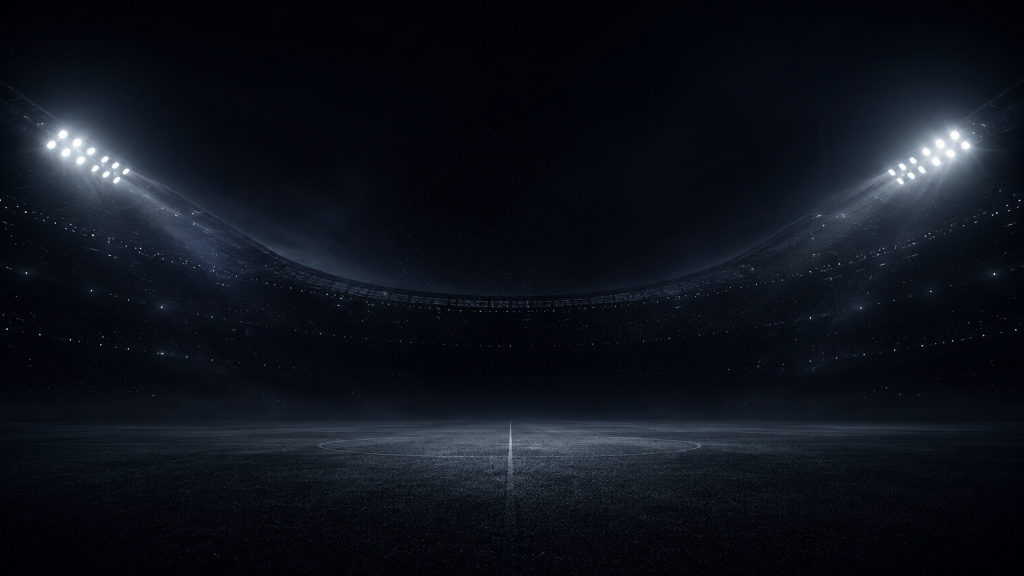
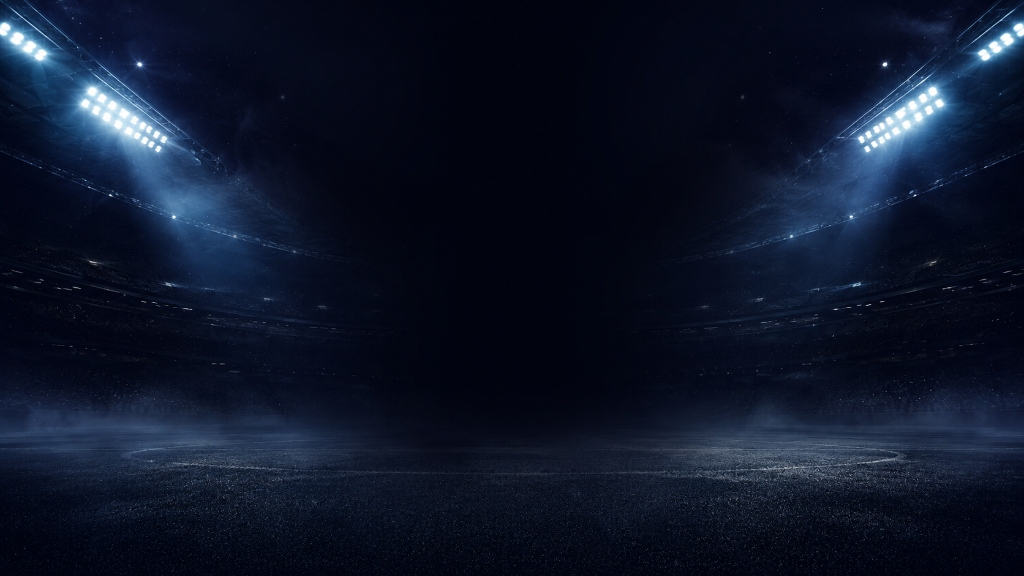
style: unify and optimize all match card backgrounds with the new ultra high-resolution dark blue stadium image

diff --git a/src/app/markets/[id]/page.js b/src/app/markets/[id]/page.js
@@ -164,9 +164,7 @@ export default function MatchDetail() {
             : 'border-zinc-800/80 shadow-[0_4px_30px_rgba(0,0,0,0.4)]'
         }`}
         style={{
-          backgroundImage: market.teamA === 'Mexico' && market.teamB === 'South Africa'
-            ? "linear-gradient(to bottom, rgba(10, 10, 10, 0.4), rgba(10, 10, 10, 0.85)), url('/mexico-sa-bg.jpg')"
-            : "linear-gradient(to bottom, rgba(10, 10, 10, 0.4), rgba(10, 10, 10, 0.85)), url('/default-stadium-bg.png')",
+          backgroundImage: "linear-gradient(to bottom, rgba(10, 10, 10, 0.4), rgba(10, 10, 10, 0.85)), url('/default-stadium-bg.png')",
           backgroundSize: 'cover',
           backgroundPosition: 'center',
         }}

diff --git a/src/app/markets/page.js b/src/app/markets/page.js
@@ -72,9 +72,7 @@ function MarketsContent() {
                           : 'border-zinc-800/80 hover:border-blue-500/40 shadow-[0_4px_25px_rgba(0,0,0,0.35)] hover:shadow-[0_8px_30px_rgba(59,130,246,0.15)] hover:scale-[1.01]'
                       }`}
                       style={{
-                        backgroundImage: isMexicoSA 
-                          ? "linear-gradient(to bottom, rgba(10, 10, 10, 0.45), rgba(10, 10, 10, 0.85)), url('/mexico-sa-bg.jpg')"
-                          : "linear-gradient(to bottom, rgba(10, 10, 10, 0.4), rgba(10, 10, 10, 0.85)), url('/default-stadium-bg.png')",
+                        backgroundImage: "linear-gradient(to bottom, rgba(10, 10, 10, 0.4), rgba(10, 10, 10, 0.85)), url('/default-stadium-bg.png')",
                         backgroundSize: 'cover',
                         backgroundPosition: 'center',
                       }}